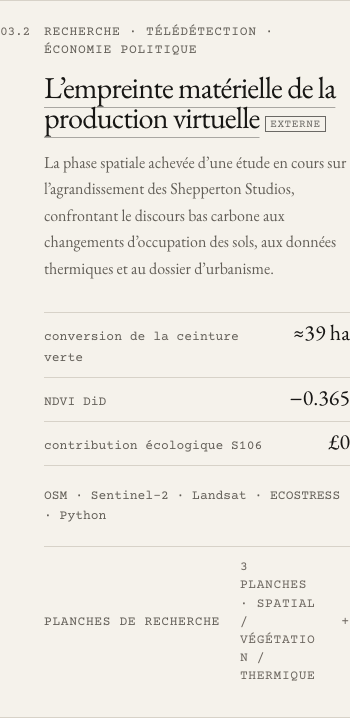
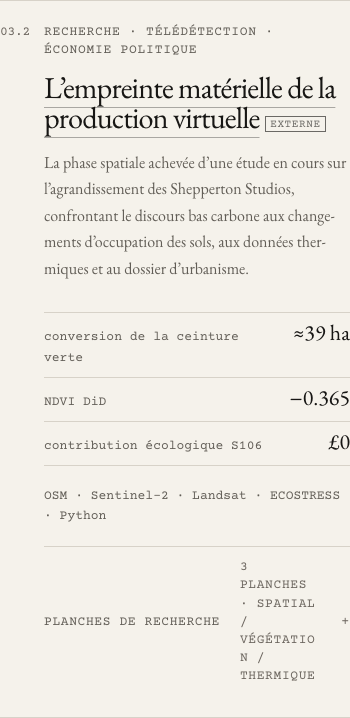
Use natural prose wrapping across published pages (#18)

Changed region(s): [[0.1429, 0.2758, 0.9429, 0.3983]]

diff --git a/assets/site.css b/assets/site.css
@@ -966,7 +966,7 @@ html[data-reading-motion] .site-home::before {
   padding-inline-end: clamp(18px, 2vw, 34px);
   font-size: clamp(16px, 1.22vw, 20px);
   line-height: 1.52;
-  text-wrap: pretty;
+  text-wrap: wrap;
 }
 
 .site-home .hero-copy .zh-lede {
@@ -1156,7 +1156,7 @@ html[data-reading-sans] .site-home.locale-en #ci-heading {
   color: var(--muted);
   font-size: 1rem;
   line-height: 1.66;
-  text-wrap: pretty;
+  text-wrap: wrap;
 }
 
 .site-home .project-voucher-deck {
@@ -1455,7 +1455,7 @@ html[data-reading-sans] .site-home.locale-en #ci-heading {
   color: var(--muted);
   font-size: 1rem;
   line-height: 1.7;
-  text-wrap: pretty;
+  text-wrap: wrap;
 }
 
 .site-home .section-note [lang="en"] {
@@ -1525,7 +1525,7 @@ html[data-reading-sans] .site-home.locale-en #ci-heading {
   color: var(--muted);
   font-size: 1rem;
   line-height: 1.65;
-  text-wrap: pretty;
+  text-wrap: wrap;
 }
 
 .site-home .writing-meta {
@@ -1534,7 +1534,7 @@ html[data-reading-sans] .site-home.locale-en #ci-heading {
   font-family: var(--mono);
   font-size: .8125rem;
   line-height: 1.5;
-  text-wrap: pretty;
+  text-wrap: wrap;
 }
 
 .site-home .writing-footer {
@@ -1674,7 +1674,7 @@ html[data-reading-sans] .site-home.locale-en #ci-heading {
 .site-home .credit p {
   max-width: none;
   line-height: 1.58;
-  text-wrap: pretty;
+  text-wrap: wrap;
 }
 
 .site-home .credit p span[lang="en"] {
@@ -1973,7 +1973,7 @@ html[data-reading-sans] .site-home.locale-en #ci-heading {
   color: var(--muted);
   font-size: .96rem;
   line-height: 1.78;
-  text-wrap: pretty;
+  text-wrap: wrap;
 }
 
 .literary-page .ci-group-copy > .source-title {
@@ -2041,7 +2041,7 @@ html[data-reading-sans] .site-home.locale-en #ci-heading {
   white-space: pre-line;
   font-size: clamp(16px, 1.45vw, 18px);
   line-height: 2.22;
-  text-wrap: pretty;
+  text-wrap: wrap;
 }
 
 .literary-page .poem-version.translation {
@@ -2160,7 +2160,7 @@ html[data-reading-sans] .site-home.locale-en #ci-heading {
   white-space: pre-line;
   font-size: clamp(16px, 1.28vw, 18px);
   line-height: 2.12;
-  text-wrap: pretty;
+  text-wrap: wrap;
 }
 
 .shi-page .body:last-child {
@@ -3274,11 +3274,11 @@ html[data-reading-sans] .site-home.locale-en #ci-heading {
   .credit p
 ),
 .essay-page .essay-body :is(p, li) {
-  text-wrap: pretty;
+  text-wrap: wrap;
 }
 
 .site-home #photo .section-note {
-  text-wrap: pretty;
+  text-wrap: wrap;
 }
 
 .site-home #photo .section-note .keep-together {
@@ -3614,7 +3614,7 @@ html[data-reading-motion]::view-transition-new(root) {
 .about-page .about-lede {
   font-size: clamp(20px, 1.8vw, 28px);
   line-height: 1.35;
-  text-wrap: pretty;
+  text-wrap: wrap;
 }
 
 .about-page .about-principle {
@@ -3668,7 +3668,7 @@ html[data-reading-motion]::view-transition-new(root) {
   color: var(--ink);
   line-height: 1.35;
   text-decoration: none;
-  text-wrap: pretty;
+  text-wrap: wrap;
 }
 
 .about-page .about-toc a:hover {
@@ -3758,7 +3758,7 @@ html[data-reading-motion]::view-transition-new(root) {
 .about-page .about-section-copy > p,
 .about-page .about-coda-copy > p {
   line-height: 1.75;
-  text-wrap: pretty;
+  text-wrap: wrap;
 }
 
 .about-page .about-section-copy > p + p,
@@ -4305,7 +4305,7 @@ body.locale-ru a[href^="https://"]:not([href^="https://hanpuli.github.io/"]):not
   margin-top: .5em;
   color: var(--muted);
   line-height: 1.55;
-  text-wrap: pretty;
+  text-wrap: wrap;
 }
 
 .contexts-page .contexts-credit,

diff --git a/assets/design-plates.css b/assets/design-plates.css
@@ -1,7 +1,7 @@
 /* Source images are untouched captures; annotations sit on an independent layer. */
 .design-atlas{--annotation:#95623d;--annotation-light:rgba(149,98,61,.12);margin:0;padding-block:3rem 4rem;border-block-start:1px solid var(--line);container-type:inline-size;container-name:atlas}
 .design-atlas>figcaption{font:400 clamp(1.65rem,3vw,2.5rem)/1.15 var(--serif);letter-spacing:-.02em;margin:0 0 1rem}
-.design-atlas .plate-copy{font:1rem/1.8 var(--serif);max-inline-size:70ch;margin:0 0 1.4rem;text-wrap:pretty}
+.design-atlas .plate-copy{font:1rem/1.8 var(--serif);max-inline-size:70ch;margin:0 0 1.4rem;text-wrap:wrap}
 .design-plate{margin-block-start:2.75rem;padding-block-start:1.75rem;border-block-start:1px solid var(--line)}
 .design-atlas h3{font:400 clamp(1.25rem,2vw,1.65rem)/1.3 var(--serif);margin:0 0 1rem;letter-spacing:-.01em}
 .design-atlas h4{font:400 .8rem/1.6 var(--mono);margin:0 0 .8rem;color:var(--muted);overflow-wrap:anywhere}
@@ -27,7 +27,7 @@
 .plate-key span,.plate-index{font:.8rem/1.5 var(--mono);color:var(--annotation);flex:none}
 .plate-type-row{display:grid;grid-template-columns:minmax(0,1.65fr) minmax(0,1fr);gap:2rem;border-block-start:1px solid var(--line);padding-block:1.75rem}
 .plate-type-reading{min-inline-size:0}
-.design-atlas .measured-type{margin:1rem 0 0;overflow-wrap:anywhere;text-wrap:pretty}
+.design-atlas .measured-type{margin:1rem 0 0;overflow-wrap:anywhere;text-wrap:wrap}
 .plate-type-metrics{display:grid;grid-template-columns:repeat(2,minmax(0,1fr));gap:1rem;margin:0;align-content:start}
 .plate-type-metrics>div:last-child{grid-column:1/-1}
 .plate-type-metrics dd{margin:0;font:.85rem/1.6 var(--mono);overflow-wrap:anywhere}

diff --git a/assets/editorial-notes.css b/assets/editorial-notes.css
@@ -55,7 +55,7 @@
   color:var(--ink);
   font-size:1.0625rem;
   line-height:1.8;
-  text-wrap:pretty;
+  text-wrap:wrap;
 }
 .about-page .editorial-section .about-section-copy > p + p,
 .voucher-project .pv-essay .about-section-copy > p + p {

diff --git a/README.md b/README.md
@@ -31,7 +31,7 @@ npm run qa
 
 The seven-language First Love abstract and the former `/status/` and `/read/` URLs are generated from `content/first-love-public.json` by `tools/first_love_public_pages.py`. Home-page links lead to the abstract; the legacy URLs remain as noindex landing pages that point there. `tools/firstlovecheck.py` verifies that no page links to the retired full reader, that the abstracts are present, and that the page CSP and public-file boundary remain intact. The full reader was public on 24 September 2026 and was withdrawn the same day while journal options were considered. Its old URL redirects to the abstract through a separate process that does not load the manuscript; all former page, figure, search and session routes return 404. The old whole-PDF service remains retired.
 
-This validates tracked public HTML, then uses Chromium to exercise the seven portfolio locales at 320, 390, 520, 640, 768, 900, 1024, 1440 and 1728 px across the home, ci, poem, About, Credits & contexts, essay, Poetry Voucher and 404 page types. Each page is loaded once and resized through the matrix so intermediate-width regressions are covered without multiplying network waits. It checks page-level overflow, clipped navigation labels, overlapping interactive targets and wide-screen 404 quotation wrapping across every locale. Since the dependency-free accessibility checker already inspects every generated page structurally, axe-core runs the eight page types in representative English and Simplified-Chinese editions at narrow and wide widths rather than repeating the same DOM audit seven times. A second browser pass serves real missing URLs with GitHub Pages-style custom-404 semantics and verifies the 404 status, path-based locale selection, root-relative stylesheet loading, language switching and axe results at phone and desktop widths. The same suite runs in the `browser-qa` CI job after the dependency-free checks pass.
+This validates tracked public HTML, then uses Chromium to exercise the seven portfolio locales at 320, 390, 520, 640, 768, 900, 1024, 1440 and 1728 px across the home, ci, poem, About, Credits & contexts, essay, Poetry Voucher and 404 page types. Each page is loaded once and resized through the matrix so intermediate-width regressions are covered without multiplying network waits. It checks page-level overflow, clipped navigation labels, overlapping interactive targets and wide-screen 404 quotation wrapping across every locale. Since the dependency-free accessibility checker already inspects every generated page structurally, axe-core runs the eight page types in representative English and Simplified-Chinese editions at narrow and wide widths rather than repeating the same DOM audit seven times. A second browser pass serves real missing URLs with GitHub Pages-style custom-404 semantics and verifies the 404 status, path-based locale selection, root-relative stylesheet loading, language switching and axe results at phone and desktop widths. The same suite runs in the `browser-qa` CI job after the dependency-free checks pass. `npm run qa:wrap` also reads the computed text wrapping of every published HTML page at phone width; the local `WRAP_ENGINE=webkit npm run qa:wrap` variant checks the same contract in WebKit.
 
 The Traditional Chinese literary source remains canonical. When `content/ci-source.json` or `content/shi-source.json` changes, regenerate the script-only Simplified Chinese mirrors before building:
 
@@ -86,7 +86,7 @@ The default layout uses progressive enhancement rather than device-specific temp
 - project-number rails and chronology dates use intrinsic sizing (`max-content` / `minmax()`) instead of fixed character assumptions;
 - Writing, Research, Photography, Profile and the long-form essay use named size containers and `@container` rules for reflow;
 - component type and spacing can use `cqi` so they respond to the component's own width rather than the browser viewport;
-- titles use balanced wrapping, prose uses pretty wrapping, and German/French/Russian prose may hyphenate automatically while headings and metadata do not;
+- titles and display decks use balanced wrapping, prose follows natural line filling, source poem lines retain their explicit breaks, and German/French/Russian prose may hyphenate automatically while headings and metadata do not;
 - directional spacing uses logical properties (`inline-start` / `inline-end`);
 - `:has()` is used only as progressive enhancement for content-aware spacing;
 - below-the-fold sections use `content-visibility: auto` with generic remembered intrinsic sizes, not locale-specific height equations;
